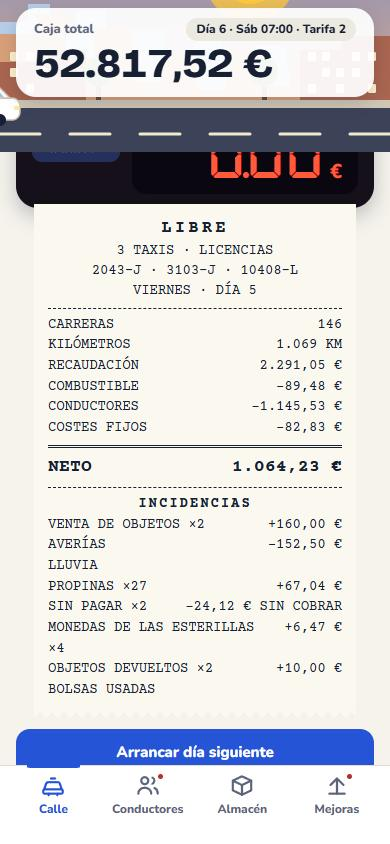
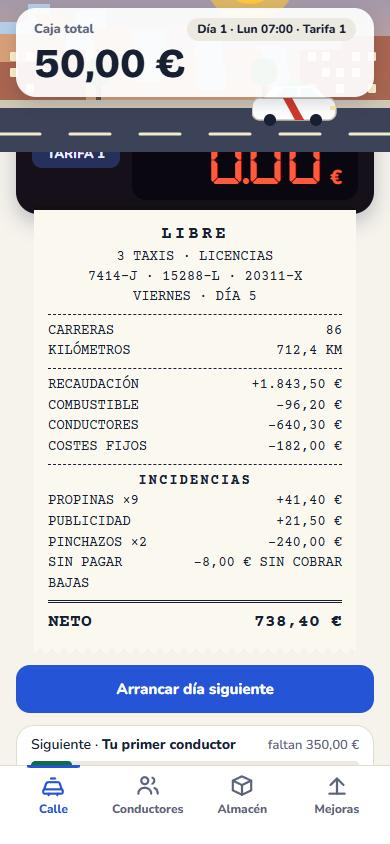
Ticket de cierre ordenado, con el neto abajo del todo
El neto ya cuenta las incidencias, pero salía encima de ellas. Ahora va
por bloques: actividad (carreras y km), cuentas de la jornada, incidencias
y, tras la doble raya, el neto. La recaudación lleva su «+».

diff --git a/js/interfaz.js b/js/interfaz.js
@@ -505,17 +505,25 @@
     return null;
   }
 
+  /*
+   * Líneas del ticket en tres bloques, de arriba abajo (Iván, 18-11-2026):
+   * la actividad (sin dinero), las cuentas de la jornada y el neto, que va
+   * al final, debajo de las incidencias, porque ya las cuenta.
+   */
   function lineasTicket(t) {
-    const neto = Libre.sim.netoCaja(t);
-    return [
-      { texto: 'Carreras', valor: String(Math.floor(t.carreras)) },
-      { texto: 'Kilómetros', valor: numero(t.km || 0) + ' km' },
-      { texto: 'Recaudación', valor: euros(t.ingresos) },
-      { texto: 'Combustible', valor: '−' + euros(t.combustible) },
-      { texto: 'Conductores', valor: '−' + euros(t.conductores) },
-      { texto: 'Costes fijos', valor: '−' + euros(t.fijos) },
-      { texto: 'Neto', valor: euros(neto), total: true }
-    ];
+    return {
+      actividad: [
+        { texto: 'Carreras', valor: String(Math.floor(t.carreras)) },
+        { texto: 'Kilómetros', valor: numero(t.km || 0) + ' km' }
+      ],
+      cuentas: [
+        { texto: 'Recaudación', valor: '+' + euros(t.ingresos) },
+        { texto: 'Combustible', valor: '−' + euros(t.combustible) },
+        { texto: 'Conductores', valor: '−' + euros(t.conductores) },
+        { texto: 'Costes fijos', valor: '−' + euros(t.fijos) }
+      ],
+      neto: { texto: 'Neto', valor: euros(Libre.sim.netoCaja(t)), total: true }
+    };
   }
 
   /*
@@ -574,10 +582,12 @@
         '<div class="ticket-linea" style="--i:' + (i++) + '">' + esc(fechaTicket(t.datos)) + '</div>' +
         '</div>' +
         '<div class="ticket-separador"></div>' +
-        lineas.filter(function (l) { return !l.total; }).map(linea).join('') +
-        '<div class="ticket-separador doble"></div>' +
-        lineas.filter(function (l) { return l.total; }).map(linea).join('') +
+        lineas.actividad.map(linea).join('') +
+        '<div class="ticket-separador"></div>' +
+        lineas.cuentas.map(linea).join('') +
         htmlIncidencias(t.datos, function () { return i++; }) +
+        '<div class="ticket-separador doble"></div>' +
+        linea(lineas.neto) +
         '</div></div>' +
         '<div class="ticket-pie" style="--i:' + (i++) + '">' +
         (t.pausa

diff --git a/DISENO.md b/DISENO.md
@@ -138,7 +138,7 @@ Todo el árbol en una pantalla (Iván, 18-11-2026): arriba el logo, del que sale
 <img src="docs/capturas/ajustes.jpg" width="250" alt="Hoja de ajustes y partida: parar al cierre, sonido y volumen">
 </p>
 
-- **Ticket de cierre** (izquierda): aparece en Calle al acabar la jornada, en papel térmico con letra de máquina (Courier Prime). Cabecera con las licencias que trabajaron; carreras, kilómetros, recaudación, combustible, conductores, costes fijos y neto (en ese orden); debajo, las incidencias. El juego se para hasta «Arrancar día siguiente».
+- **Ticket de cierre** (izquierda): aparece en Calle al acabar la jornada, en papel térmico con letra de máquina (Courier Prime). Cabecera con las licencias que trabajaron y, en bloques separados por rayas: carreras y kilómetros; recaudación, combustible, conductores y costes fijos; las incidencias, y abajo del todo, tras una doble raya, el **neto**, que ya las cuenta. El juego se para hasta «Arrancar día siguiente».
 - **Ajustes y partida** (derecha), desde el engranaje: parar al cierre del día, sonido sí o no y volumen, y exportar, importar o borrar la partida.
 
 ### Sistema visual

diff --git a/CLAUDE.md b/CLAUDE.md
@@ -306,9 +306,11 @@ aleatorios desde el 16 de noviembre de 2026, y la libranza desde el 17 (Iván).
   `importeEnCurso()` (solo lectura) da lo que marca el taxímetro en vivo.
 - El ticket de cierre va dentro de la página, justo debajo del taxímetro, y
   desaparece al arrancar el día (no tapa la página: en pausa se compra).
-  Aspecto de papel térmico; sus líneas son carreras, kilómetros, recaudación,
-  combustible, conductores, costes fijos y neto, en ese orden (Iván), y debajo
-  el bloque de incidencias. No añadir líneas de ticket inventadas. En la
+  Aspecto de papel térmico, en bloques separados (Iván, 18-11-2026): carreras
+  y kilómetros; recaudación, combustible, conductores y costes fijos; el
+  bloque de incidencias, y al final, tras la doble raya, el neto (que ya
+  cuenta las incidencias; «Sin pagar» no, es dinero que no entró).
+  `lineasTicket()` da los bloques. No añadir líneas de ticket inventadas. En la
   cabecera, las licencias que trabajaron (facturaron) esos días: la caja
   las apunta en `caja.licencias` (`sumarFacturado()`) y `sumarCierres()`
   junta las de varios días.
